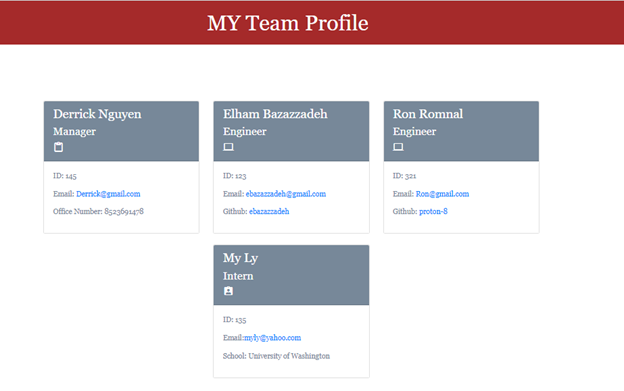
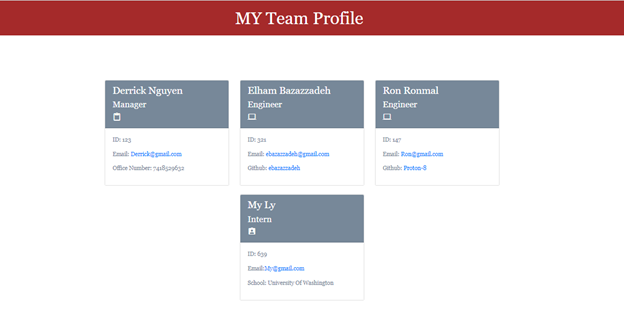
updates demo(adding the npm test to the video) and README FILE

Changed region(s): [[0.0609, 0.2424, 0.883, 0.5758], [0.3349, 0.5758, 0.609, 0.9394], [0.0, 0.0303, 1.0, 0.1212]]

diff --git a/dist/index.html b/dist/index.html
@@ -30,9 +30,9 @@
             </div>
 
             <div class="card-body">
-                <p class="id">ID: 145</p>
+                <p class="id">ID: 123</p>
                 <p class="email">Email: <a href="mailto:Derrick@gmail.com">Derrick@gmail.com</a></p>
-                <p class="office">Office Number: 8523691478</p>
+                <p class="office">Office Number: 7418529632</p>
             </div>
 
         </div>
@@ -46,7 +46,7 @@
             </div>
 
             <div class="card-body">
-                <p class="id">ID: 123</p>
+                <p class="id">ID: 321</p>
                 <p class="email">Email: <a href="mailto:ebazazzadeh@gmail.com">ebazazzadeh@gmail.com</a></p>
                 <p class="github">Github: <a href="https://github.com/ebazazzadeh">ebazazzadeh</a></p>
             </div>
@@ -57,14 +57,14 @@
     <div class="col-4 mt-4">
         <div class="card h-100">
             <div class="card-header">
-                <h3>Ron Romnal</h3>
+                <h3>Ron Ronmal</h3>
                 <h4>Engineer</h4><i class="material-icons">laptop_mac</i>
             </div>
 
             <div class="card-body">
-                <p class="id">ID: 321</p>
+                <p class="id">ID: 147</p>
                 <p class="email">Email: <a href="mailto:Ron@gmail.com">Ron@gmail.com</a></p>
-                <p class="github">Github: <a href="https://github.com/proton-8">proton-8</a></p>
+                <p class="github">Github: <a href="https://github.com/Proton-8">Proton-8</a></p>
             </div>
 
         </div>
@@ -78,9 +78,9 @@
             </div>
 
             <div class="card-body">
-                <p class="id">ID: 135</p>
-                <p class="email">Email:<a href="mailto:myly@yahoo.com">myly@yahoo.com</a></p>
-                <p class="school">School: University of Washington</p>
+                <p class="id">ID: 639</p>
+                <p class="email">Email:<a href="mailto:My@gmail.com">My@gmail.com</a></p>
+                <p class="school">School: University Of Washington</p>
             </div>
     </div>
 </div>

diff --git a/README.md b/README.md
@@ -47,6 +47,9 @@ View walk through video here
 
 ![Team Profile Generator](./assets/demo/Team-Profile-Generator.gif 'Team-Profile-Generator')
 
+<br>
+View walk through video here in google drive - [Screencastify](https://drive.google.com/file/d/14v9yIKAwgBavxCRG0UCHrWRL11IQgb-9/view?usp=sharing)
+
 ## License
 
 This project is license under MIT
